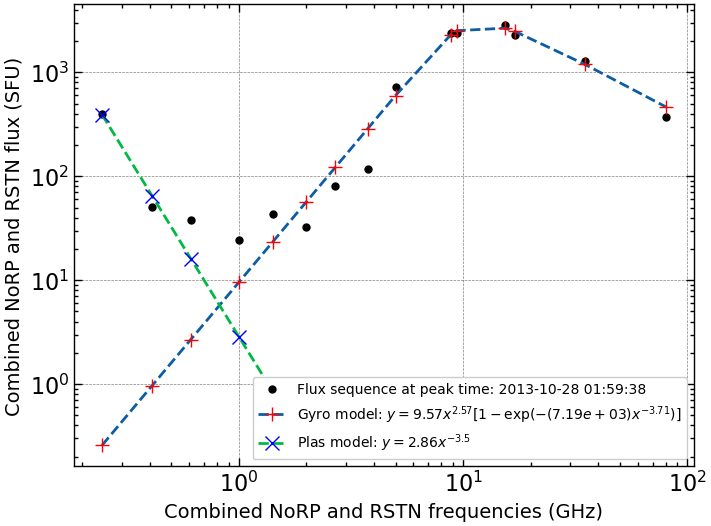
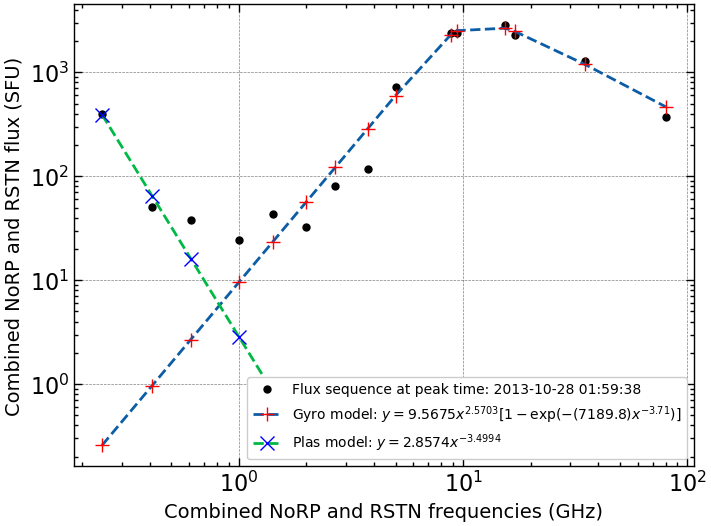
Plotter and fitter refactor

Changed region(s): [[0.3404, 0.73, 0.9283, 0.8821]]

diff --git a/data_fitter.py b/data_fitter.py
@@ -91,10 +91,10 @@ def fit_label(gyro_param, plas_param):
     # Label generator
     label_gyro, label_plas = (
         # Gyro model
-        rf"Gyro model: $y={fit_a_cap:.3g}x^{{{fit_a:.3g}}}"
-        rf"[1-\exp({{-({fit_b_cap:.3g})x^{{-{fit_b:.3g}}}}})]$",
+        rf"Gyro model: $y={fit_a_cap:.5g}x^{{{fit_a:.5g}}}"
+        rf"[1-\exp({{-({fit_b_cap:.5g})x^{{-{fit_b:.5g}}}}})]$",
         # Plas model
-        rf"Plas model: $y={fit_c:.3g}x^{{{fit_k:.3g}}}$",
+        rf"Plas model: $y={fit_c:.5g}x^{{{fit_k:.5g}}}$",
     )
 
     # Result return
@@ -159,18 +159,18 @@ def gyro_fitter(data_freq, data_flux, title):
     print("=" * 70)
     # Print fit parameters
     print(f"{'Gyro fitter fitted parameters':<20}")
-    print(f"{'A:':<20}{params[0]:>10.3g}{'':10}{'B:':<20}{params[1]:>10.3g}")
-    print(f"{'a:':<20}{params[2]:>10.3g}{'':10}{'b:':<20}{params[3]:>10.3g}")
+    print(f"{'A:':<20}{params[0]:>10.5g}{'':10}{'B:':<20}{params[1]:>10.5g}")
+    print(f"{'a:':<20}{params[2]:>10.5g}{'':10}{'b:':<20}{params[3]:>10.5g}")
     print(
-        f"{'Low freq slope:':<20}{params[2]:>10.3g}"
-        f"{'':10}{'High freq slope:':<20}{params[2]-params[3]:>10.3g}"
+        f"{'Low freq slope:':<20}{params[2]:>10.5g}"
+        f"{'':10}{'High freq slope:':<20}{params[2]-params[3]:>10.5g}"
     )
     print()
     # Print chi2 results
     print(f"{'Chi-square test result':<20}")
     print(
-        f"{'Chi-square:':<20}{chi_sqr:>10.3g}"
-        f"{'':10}{'p-value:':<20}{chi_p_val:>10.3g}"
+        f"{'Chi-square:':<20}{chi_sqr:>10.5g}"
+        f"{'':10}{'p-value:':<20}{chi_p_val:>10.5g}"
     )
     print("=" * 70)
     print()
@@ -237,13 +237,13 @@ def plas_fitter(data_x, data_y, cut):
     print("=" * 70)
     # Print fit parameters
     print(f"{'Plas fitter fitted parameters':<20}")
-    print(f"{'c:':<20}{params[0]:>10.3g}{'':10}{'k:':<20}{params[1]:>10.3g}")
+    print(f"{'c:':<20}{params[0]:>10.5g}{'':10}{'k:':<20}{params[1]:>10.5g}")
     print()
     # Print chi2 results
     print(f"{'Chi-square test result':<20}")
     print(
-        f"{'Chi-square:':<20}{chi_sqr:>10.3g}"
-        f"{'':10}{'p-value:':<20}{chi_p_val:>10.3g}"
+        f"{'Chi-square:':<20}{chi_sqr:>10.5g}"
+        f"{'':10}{'p-value:':<20}{chi_p_val:>10.5g}"
     )
     print("=" * 70)
     print()

diff --git a/data_plotter.py b/data_plotter.py
@@ -475,6 +475,7 @@ def denoise_plotter(arg):
         data_peak_freq,
         data_peak_flux_denoise,
         ".",
+        color="black",
         markersize=10,
         label="Denoised flux sequence at peak time: " + data_norp_peak_time,
     )
@@ -482,7 +483,9 @@ def denoise_plotter(arg):
     plt_1 = plt.plot(
         data_peak_freq,
         data_gyro,
-        "--",
+        "+--",
+        markersize=10,
+        markeredgecolor="red",
         label=label_gyro,
     )
 
